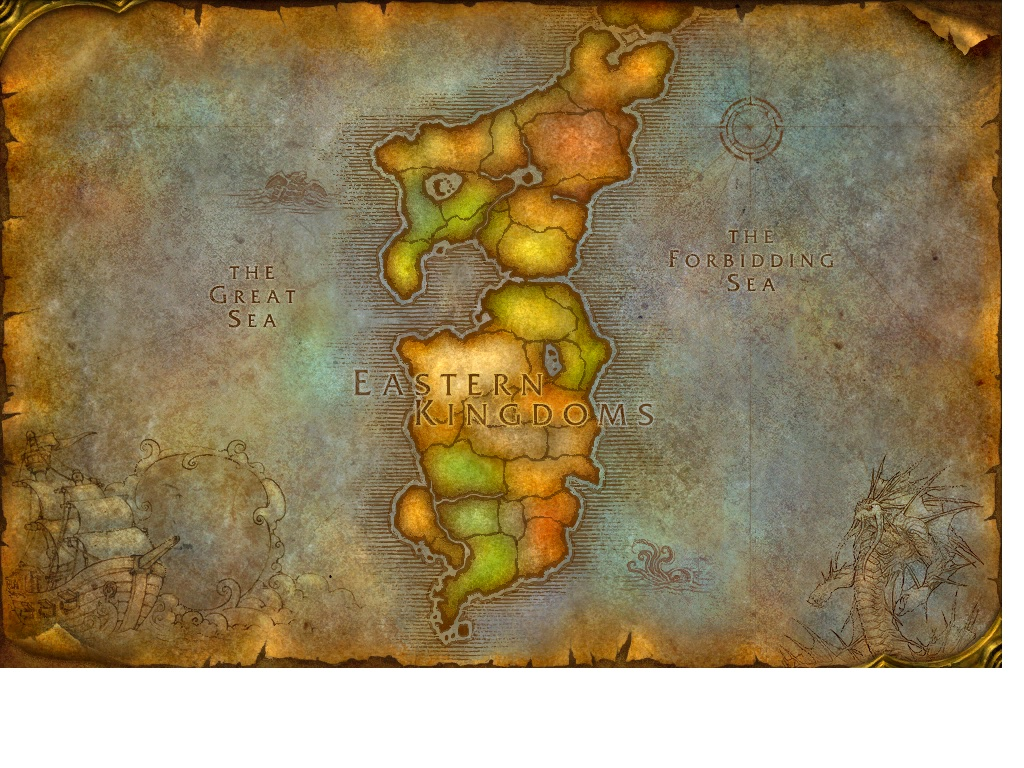
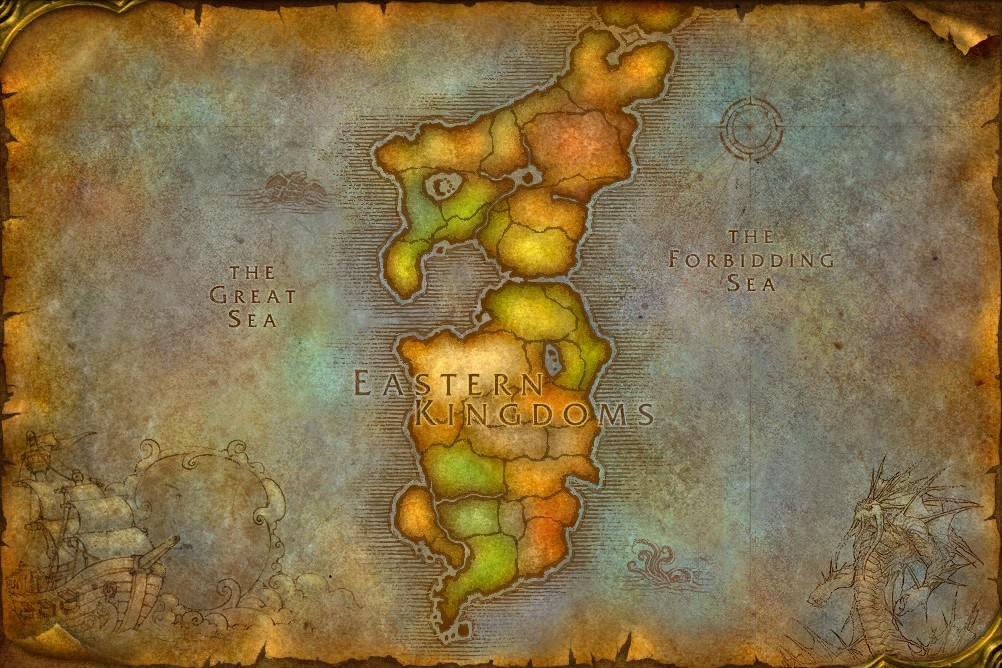
Fix map images: crop 100px white padding from tile stitching
Map images had 100px white rows at bottom and 22px white columns
at right edge — artifact from stitching 4x3 grid of 256x256 tiles.
Cropped all 4 maps from 1024x768 to 1002x668.

Also: removed border, added bg-[#0a0a0c] fallback, exact aspect-ratio.

diff --git a/mw-unified-site/src/app/map/page.tsx b/mw-unified-site/src/app/map/page.tsx
@@ -177,16 +177,16 @@ export default function MapPage() {
             </div>
           </div>
 
-          <div className="grid grid-cols-1 lg:grid-cols-4 gap-6">
+          <div className="grid grid-cols-1 lg:grid-cols-4 gap-6 items-start">
             {/* Map */}
             <div className="lg:col-span-3">
               <div
-                className="relative border border-[#2a2a32] rounded-xl overflow-hidden"
+                className="relative rounded-xl overflow-hidden bg-[#0a0a0c]"
                 style={{
                   backgroundImage: `url(${mapConfig.image})`,
-                  backgroundSize: "cover",
+                  backgroundSize: "100% 100%",
                   backgroundPosition: "center",
-                  aspectRatio: "4/3",
+                  aspectRatio: "1002/668",
                 }}
               >
 
